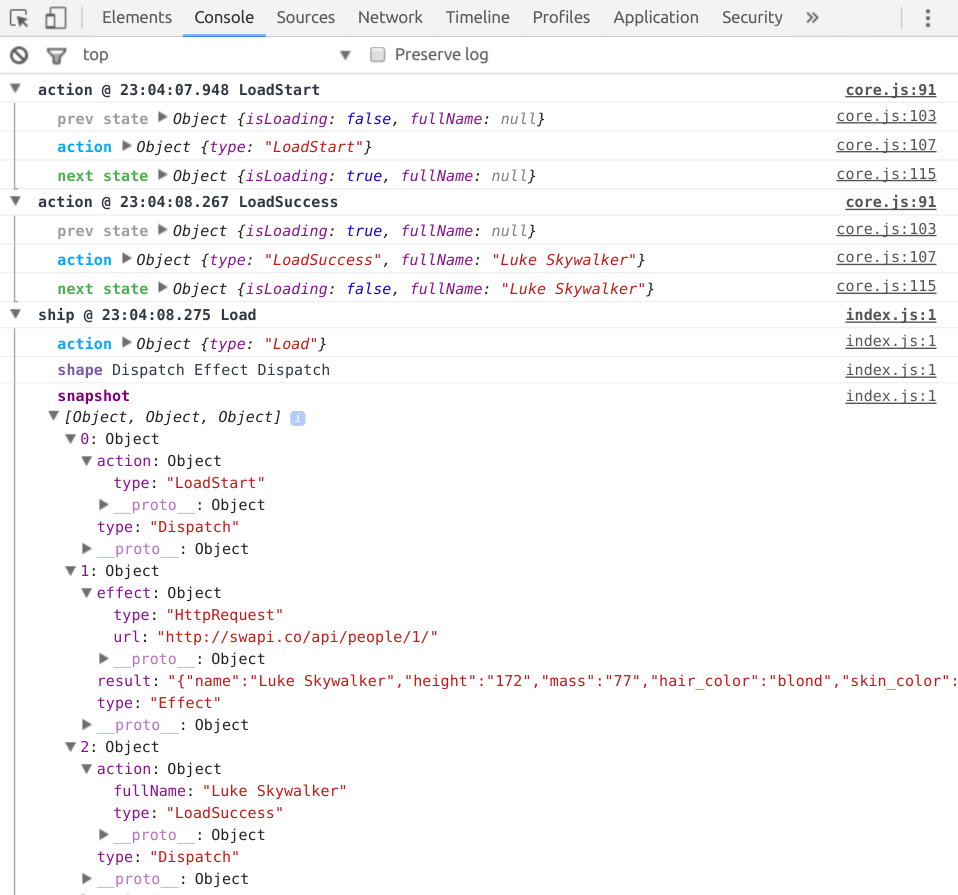
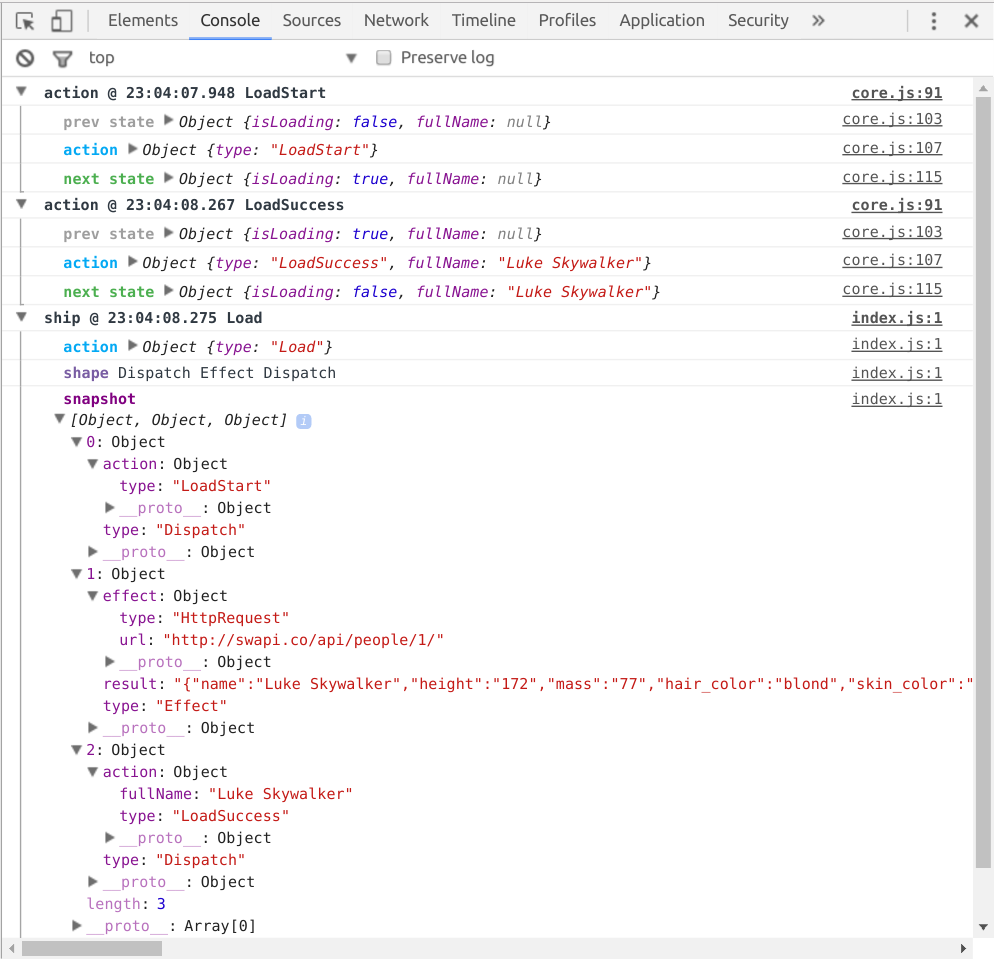
Cosmetic

diff --git a/README.md b/README.md
@@ -1,4 +1,4 @@
 # redux-ship-logger
 A logger for Redux Ship
 
-![Screenshot](https://raw.githubusercontent.com/clarus/redux-ship-logger/master/logger.png)
+<img src='https://raw.githubusercontent.com/clarus/redux-ship-logger/master/logger.png' alt='Screenshot' width='700px'>
